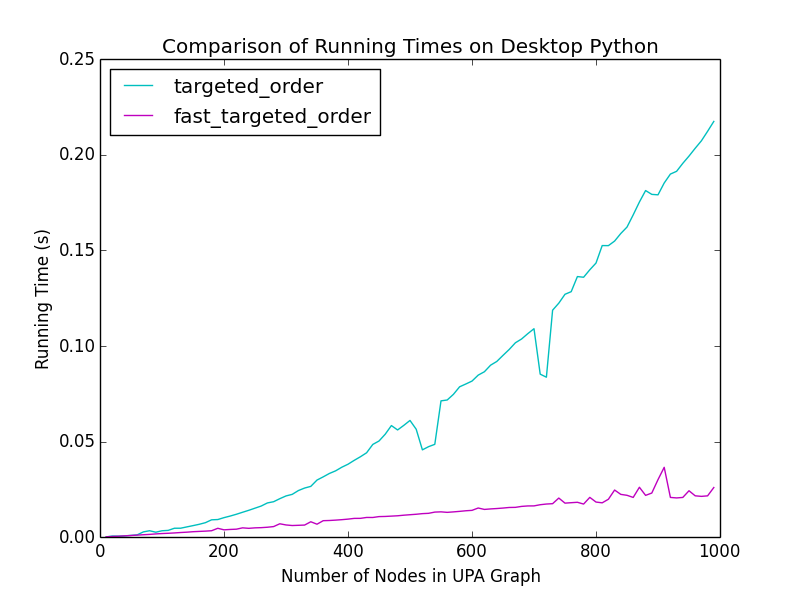
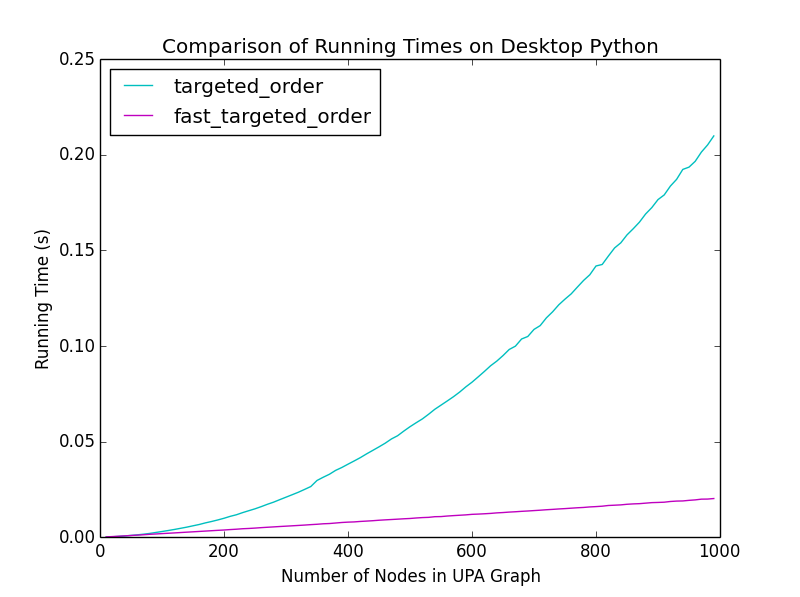
Smoothed data with median of 10 trials Q3

diff --git a/Module 2/app2.py b/Module 2/app2.py
@@ -11,7 +11,9 @@ Keith G. Williams
 import urllib2
 import random
 import time
+import gc
 import math
+import numpy as np
 import matplotlib.pyplot as plt
 from collections import deque
 
@@ -446,7 +448,8 @@ def timer(func):
     targeted orders. Returns a list of time intervals."""
     delta_t = []
     M = 5
-
+    
+    gc.disable() # disable garbage collector for uninterupted timing    
     for n in range(10, 1000, 10):
         upa_ugraph = upa(n, M)
         initial = time.clock()
@@ -454,15 +457,25 @@ def timer(func):
         final = time.clock()
         delta_t.append(final - initial)
 
+    gc.enable() # turn garbage collector back on
     return delta_t
 
 def question3():
     """plot running time comparisons"""
     # get running times
     random.seed(912)
+    
+    # run 10 trials, and take the median time for each n to smooth data
+    basic_trials = np.zeros((10, 99))
+    fast_trials = np.zeros((10, 99))
+    for i in range(10):
+        basic_trials[i,:] = timer(targeted_order)
+        fast_trials[i,:] = timer(fast_targeted_order)
+        
+    basic = np.median(basic_trials, 0)
+    fast = np.median(fast_trials, 0)
+    
     n = range(10, 1000, 10)
-    basic = timer(targeted_order)
-    fast = timer(fast_targeted_order)
     
     # plot
     plt.figure()
@@ -470,7 +483,7 @@ def question3():
     plt.plot(n, fast, 'm-', label='fast_targeted_order')
     plt.legend(loc='upper left')
     plt.xlabel('Number of Nodes in UPA Graph')
-    plt.ylabel('Running Time (s)')
+    plt.ylabel('Median Running Time (s), 10 trials')
     plt.title('Comparison of Running Times on Desktop Python')
     plt.show()
     
